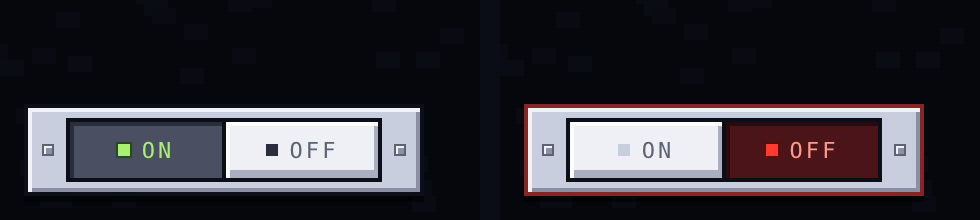
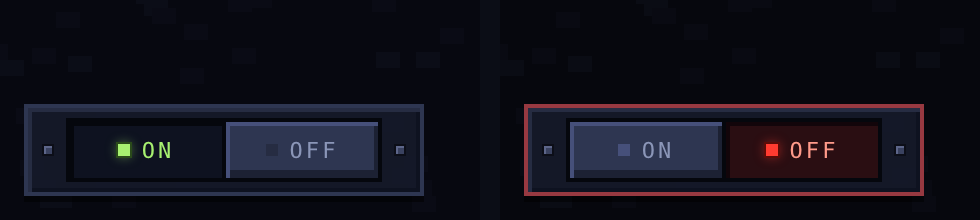
Give the kill switch a dark style to match the rest of the UI.

diff --git a/v3/css/style.css b/v3/css/style.css
@@ -354,18 +354,18 @@ h1 span { color: var(--gold); }
   position: absolute; left: 12px; bottom: calc(var(--shop) + 12px); z-index: 5;
   width: 200px; height: 46px; padding: 5px 7px;
   display: flex; align-items: center; gap: 6px;
-  background: #c9cede; border: 2px solid #0c0e18;
-  box-shadow: inset 2px 2px 0 #f0f2f8, inset -2px -2px 0 #8b90a4, 0 3px 0 rgba(0, 0, 0, 0.5);
+  background: rgba(21, 25, 41, 0.95); border: 2px solid var(--line);
+  box-shadow: inset 2px 2px 0 #262c42, inset -2px -2px 0 #0e1220, 0 3px 0 rgba(0, 0, 0, 0.5);
 }
-#btn-kill:hover:not(:disabled) { background: #d6dae8; border-color: #0c0e18; }
+#btn-kill:hover:not(:disabled) { background: #1d2238; border-color: #46507a; }
 #btn-kill:active:not(:disabled) { transform: none; }
 #btn-kill .kb-screw {
-  flex: 0 0 auto; width: 6px; height: 6px; background: #8b90a4; border: 1px solid #5d6275;
-  box-shadow: inset 1px 1px 0 #f0f2f8;
+  flex: 0 0 auto; width: 6px; height: 6px; background: #3a4260; border: 1px solid #0c0e18;
+  box-shadow: inset 1px 1px 0 #5d668a;
 }
 #btn-kill .kb-rocker {
   flex: 1 1 auto; height: 100%; display: flex;
-  background: #0c0e18; border: 2px solid #0c0e18; gap: 2px;
+  background: #05070d; border: 2px solid #05070d; gap: 2px;
 }
 #btn-kill .kb-half {
   flex: 1 1 0; display: flex; align-items: center; justify-content: center; gap: 6px;
@@ -373,19 +373,19 @@ h1 span { color: var(--gold); }
 }
 #btn-kill .kb-half i { display: block; width: 6px; height: 6px; }
 /* pressed in: flat, dark, sunk */
-#btn-kill .kb-half { background: #4a4f62; color: #8b90a4; box-shadow: inset 2px 2px 0 #2a2e3c; }
-#btn-kill .kb-half i { background: #2a2e3c; }
+#btn-kill .kb-half { background: #0e1220; color: var(--dimmer); box-shadow: inset 2px 2px 0 #05070d; }
+#btn-kill .kb-half i { background: #262c42; }
 /* standing proud: lit from above, a thick shadow under it */
-#btn-kill .kb-off { background: #eef0f6; color: #5d6275; box-shadow: inset 2px 2px 0 #ffffff, inset -2px -4px 0 #a9aec0; }
-#btn-kill .kb-on i { background: #a7f070; box-shadow: 0 0 0 1px #2a4a1a; }
+#btn-kill .kb-off { background: #2e3651; color: var(--dim); box-shadow: inset 2px 2px 0 #46507a, inset -2px -4px 0 #1c2133; }
+#btn-kill .kb-on i { background: #a7f070; box-shadow: 0 0 0 1px #2a4a1a, 0 0 6px rgba(167, 240, 112, 0.6); }
 #btn-kill .kb-on { color: #a7f070; }
 /* thrown to OFF: the other way about, and red */
-#btn-kill.down .kb-on { background: #eef0f6; color: #5d6275; box-shadow: inset 2px 2px 0 #ffffff, inset -2px -4px 0 #a9aec0; }
-#btn-kill.down .kb-on i { background: #c9cede; box-shadow: none; }
-#btn-kill.down .kb-off { background: #4a1418; color: #ff9a8a; box-shadow: inset 2px 2px 0 #2a0a0c; }
-#btn-kill.down .kb-off i { background: #ff3b30; box-shadow: 0 0 0 1px #5a0c08; }
+#btn-kill.down .kb-on { background: #2e3651; color: var(--dim); box-shadow: inset 2px 2px 0 #46507a, inset -2px -4px 0 #1c2133; }
+#btn-kill.down .kb-on i { background: #46507a; box-shadow: none; }
+#btn-kill.down .kb-off { background: #2a0e12; color: #ff9a8a; box-shadow: inset 2px 2px 0 #12050a; }
+#btn-kill.down .kb-off i { background: #ff3b30; box-shadow: 0 0 0 1px #5a0c08, 0 0 6px rgba(255, 59, 48, 0.7); }
 #btn-kill.down { border-color: #ff3b30; animation: killpulse 1.2s steps(2) infinite; }
-@keyframes killpulse { 50% { border-color: #0c0e18; } }
+@keyframes killpulse { 50% { border-color: var(--line); } }
 
 /* the pop-up -------------------------------------------------------------- */
 
